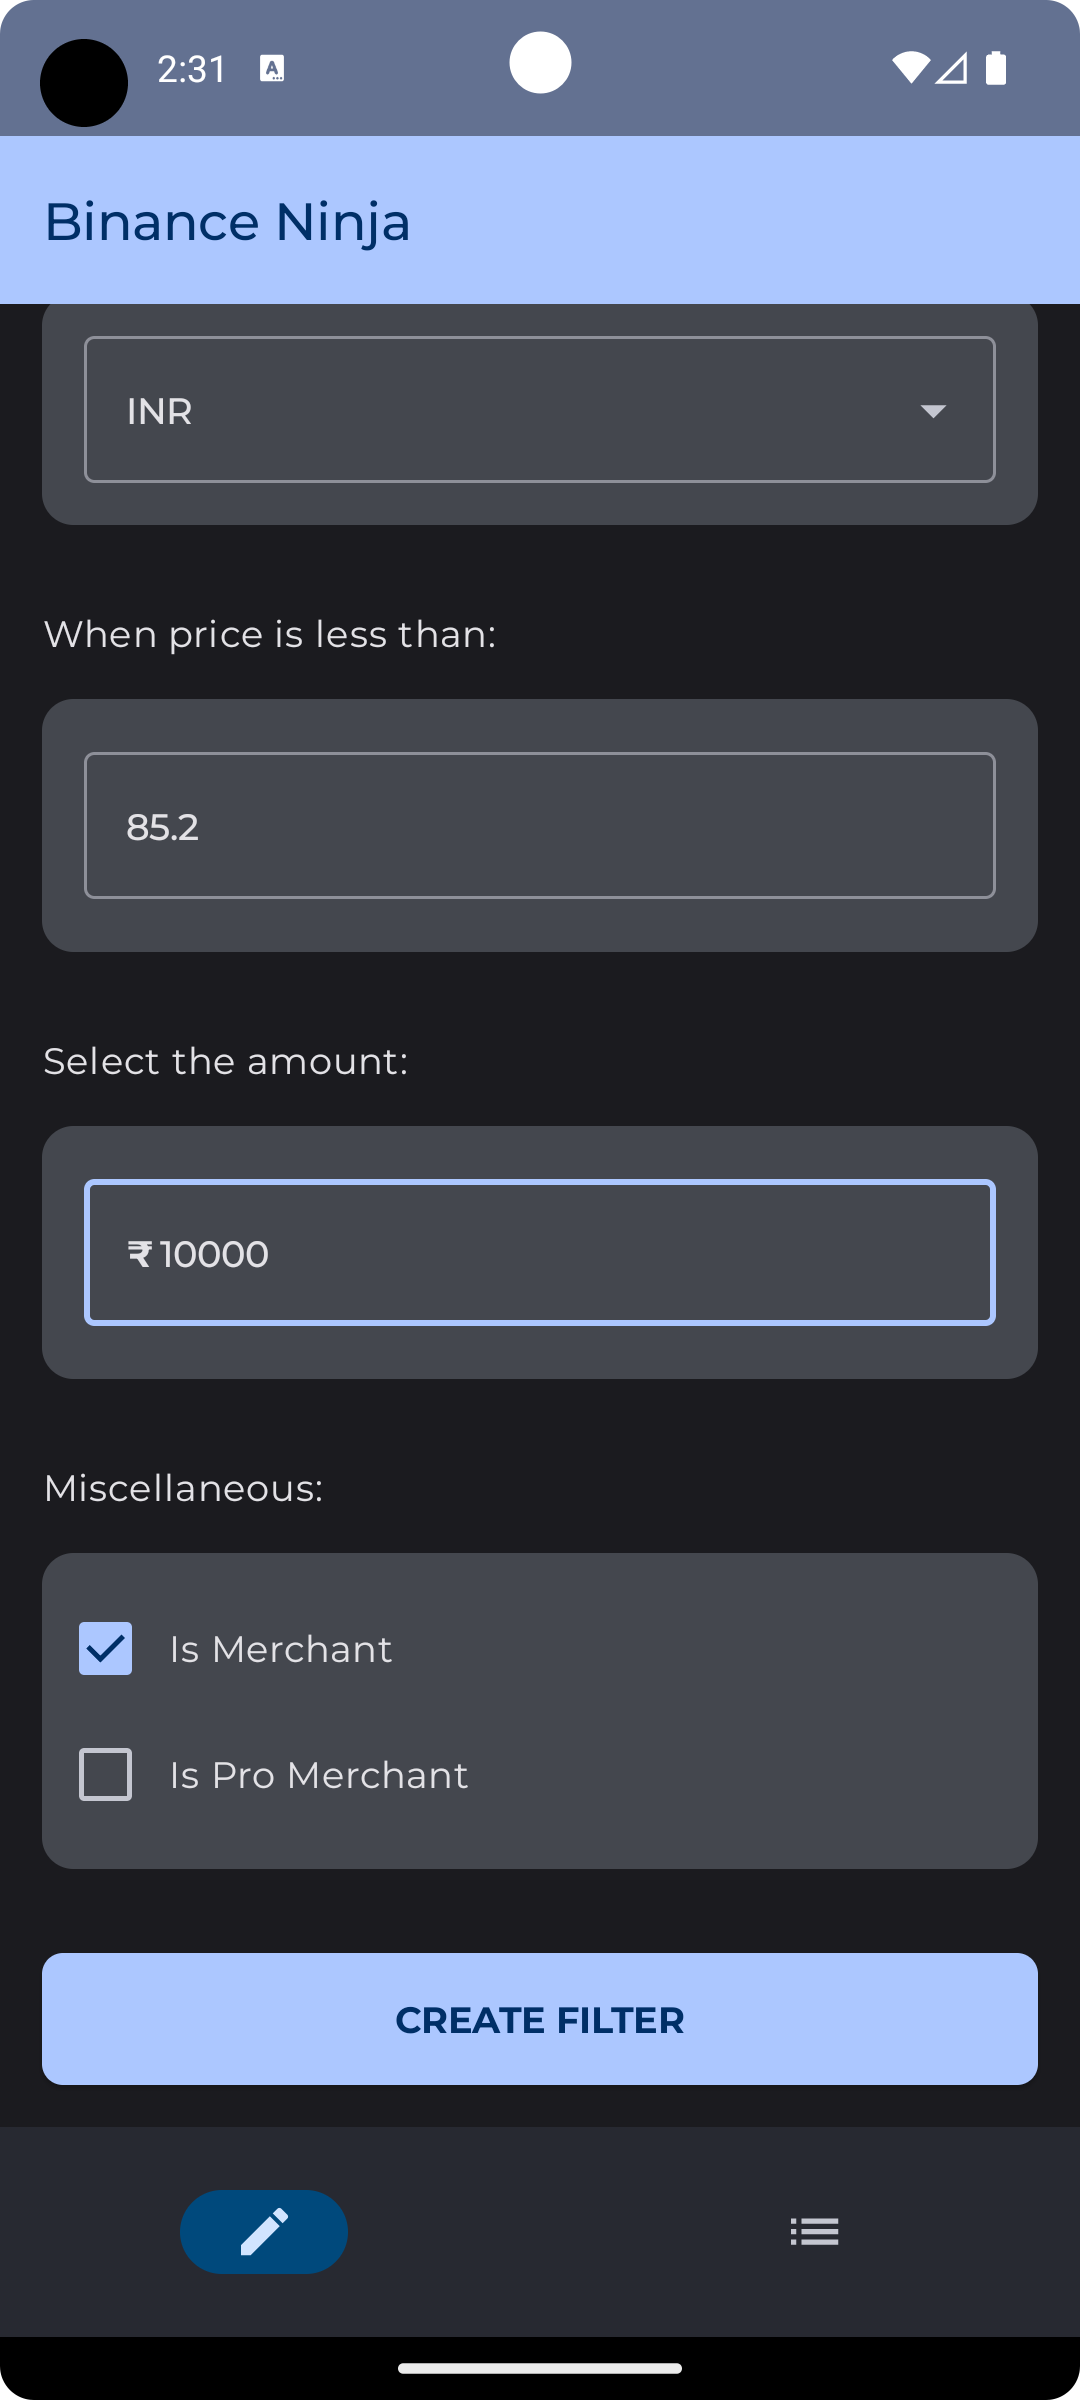
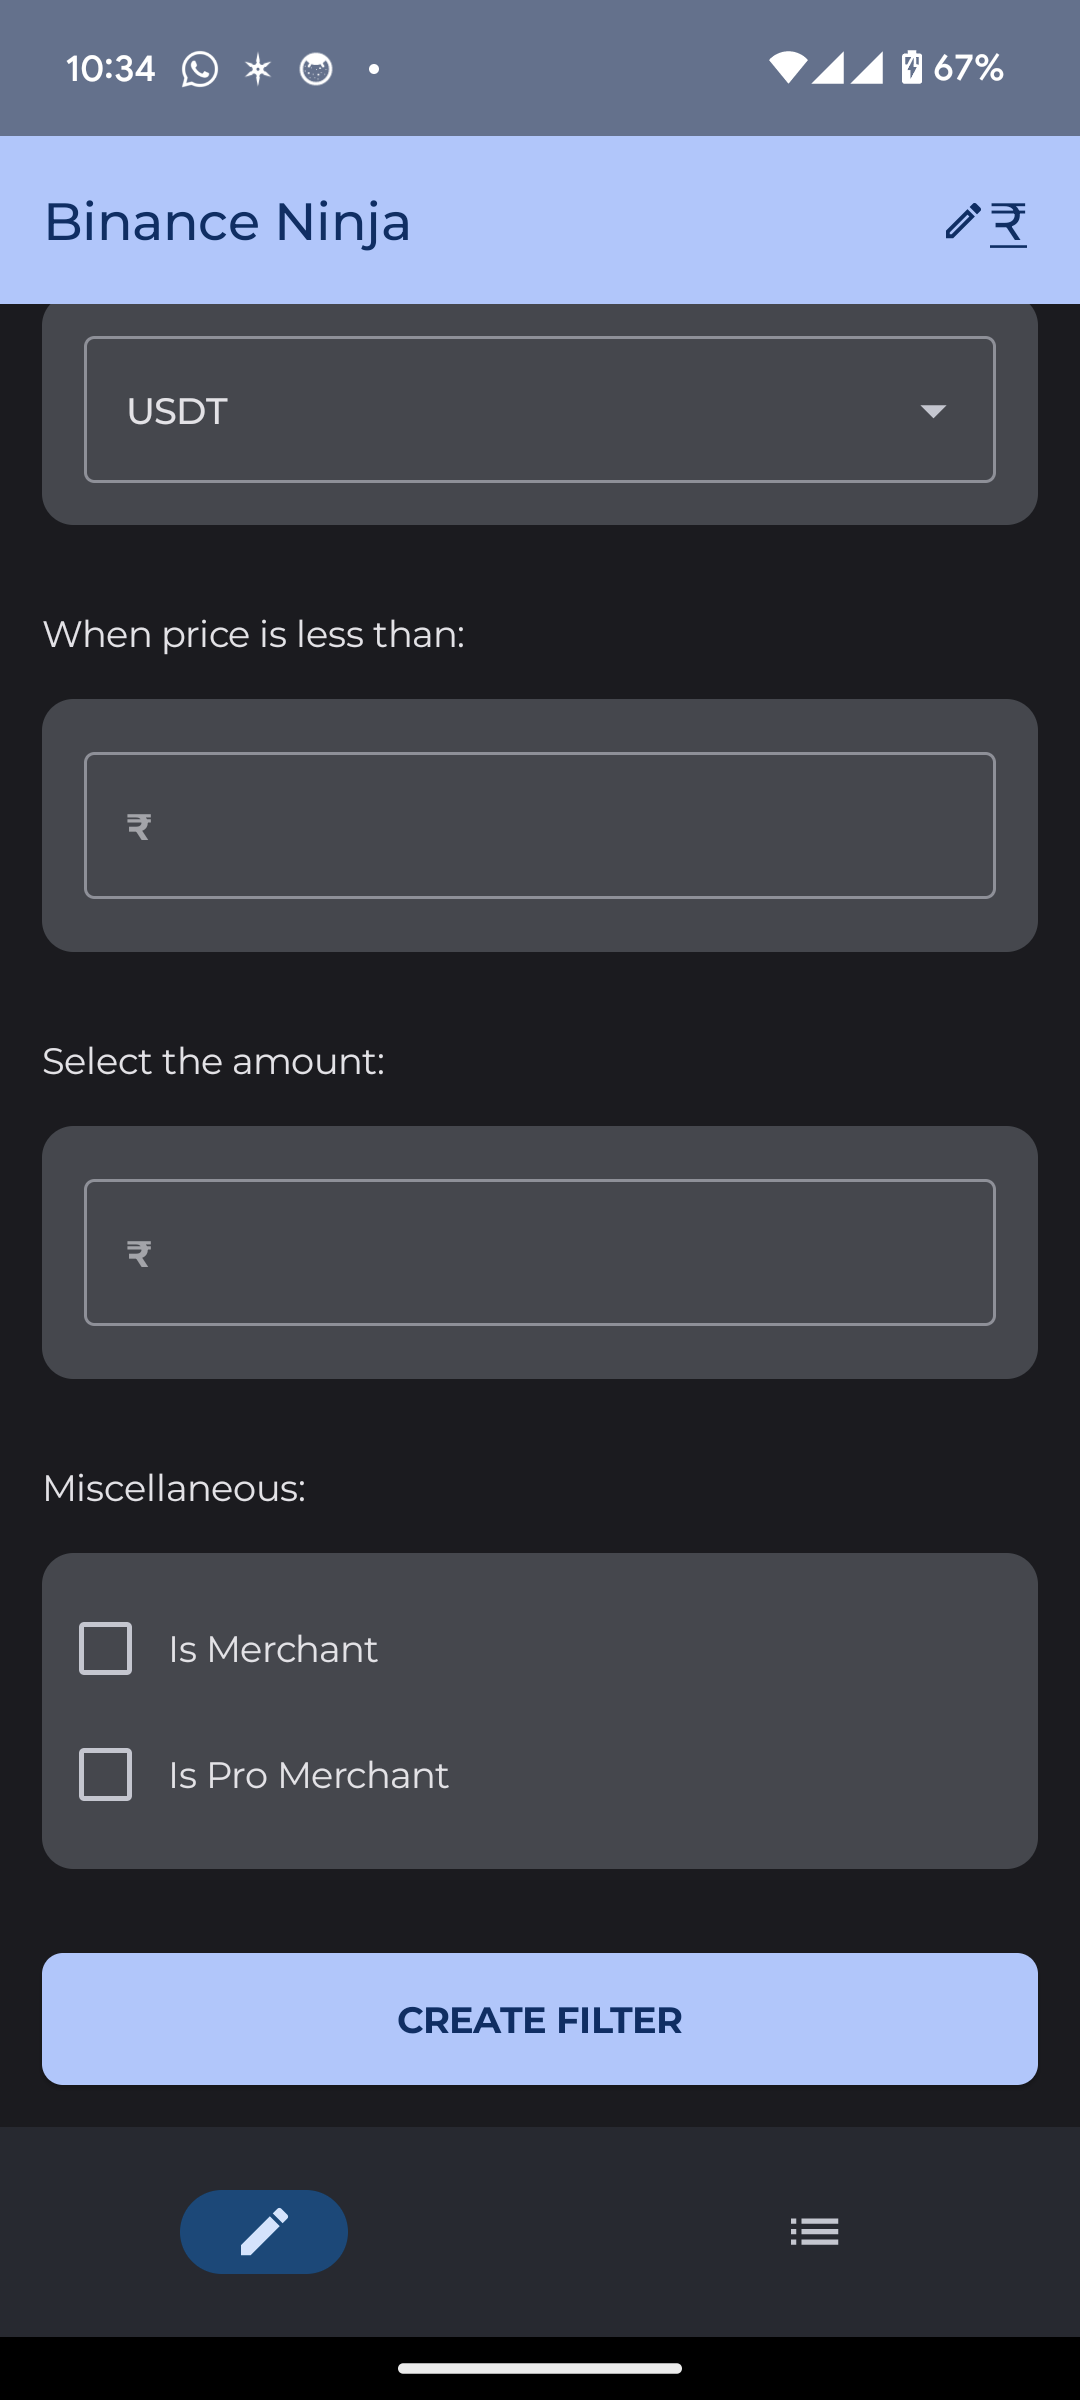
chore(update-readme): add feat assets, gplay link (#19)

diff --git a/README.md b/README.md
@@ -5,7 +5,20 @@ get notifications for P2P orders on Binance.
 
 You can set filters, and It’ll alert you when any order satisfies the filter criteria.
 
-### Project Configuration
+## Get it
+
+<a href='https://play.google.com/store/apps/details?id=dev.anvith.binanceninja&pcampaignid=github'><img alt='Get it on Google Play' src='https://play.google.com/intl/en_us/badges/static/images/badges/en_badge_web_generic.png' width="200px"/></a>
+
+## Screenshots
+
+<p style="text-align: center;">
+  <img src="screenshots/featured/create%20filter.png" width="250" alt="Create Filters"/>
+  <img src="screenshots/featured/get_notified.png" width="250" alt="Get Notifications"/>
+  <img src="screenshots/featured/view_filters.png" width="250" alt="View Filters"/>
+
+</p>
+
+## Project Configuration
 
 * `/composeApp` is for code that will be shared across your Compose Multiplatform applications.
   It contains several subfolders:
@@ -14,7 +27,9 @@ You can set filters, and It’ll alert you when any order satisfies the filter c
       folder name.
       For example, if you want to use Apple’s CoreCrypto for the iOS part of your Kotlin app,
       `iosMain` would be the right folder for such calls.
-
+    - `/desktopMain` is for Desktop applications.
+* `/androidApp` is for Android applications. Even if we're sharing your UI with Compose Multiplatform,
+  this is used as the entry point for the Android app.
 * `/iosApp` contains iOS applications. Even if you’re sharing your UI with Compose Multiplatform,
   you need this entry point for your iOS app. This is also where you should add SwiftUI code for
   your project.
@@ -22,35 +37,26 @@ You can set filters, and It’ll alert you when any order satisfies the filter c
 Learn more
 about [Kotlin Multiplatform](https://www.jetbrains.com/help/kotlin-multiplatform-dev/get-started.html)
 
-### Libraries
+## Libraries
 
-	[KTOR - Networking](/https://ktor.io/docs/http-client-multiplatform.html/)
+[KTOR](/https://ktor.io/docs/http-client-multiplatform.html/) | [KotlinX](/https://github.com/Kotlin/kotlinx.serialization/) | [SQLDelight](https://cashapp.github.io/sqldelight/2.0.0)
 
-	[KotlinX Serialization](/https://github.com/Kotlin/kotlinx.serialization/)
+[Napier](https://github.com/AAkira/Napier) | [Kotlin Inject](/https://github.com/evant/kotlin-inject/) | [Voyager](https://github.com/adrielcafe/voyager)
 
-	[SQLDelight Persistence](https://cashapp.github.io/sqldelight/2.0.0)
+[Compose](https://developer.android.com/jetpack/compose) | [Notification Desktop](/https://github.com/dorkbox/Notify/) | [Lyricist](/https://github.com/adrielcafe/lyricist/)
 
-	[Napier - Logging](https://github.com/AAkira/Napier)
+## Credits
 
-	[Kotlin Inject](/https://github.com/evant/kotlin-inject/)
+[Twine](https://github.com/msasikanth/twine) served as a good starting point for me.
 
-	[Voyager Navigation](https://github.com/adrielcafe/voyager)
+## Known Issues
 
-	[Compose](https://developer.android.com/jetpack/compose)
+Kotlin Inject: Currently there are issues with scoping and redundant application of scopes as
+per [this issue](/https://github.com/evant/kotlin-inject/issues/320/)
 
-	[Notification Desktop](/https://github.com/dorkbox/Notify/)
+## TODO
 
-	[Lyricist Localization](/https://github.com/adrielcafe/lyricist/)
-
-### Credits
-[Twine](https://github.com/msasikanth/twine)
-
-### Known Issues
-Kotlin Inject: Currently there are issues with scoping and redundant application of scopes as per [this issue](/https://github.com/evant/kotlin-inject/issues/320/)
-
-### TODO
 - Add tests
 - Add linter/formatting checks
 - Add CI/CD
-- Add Crypto Selection Feature
-
++ ~~Add Crypto Selection Feature~~
